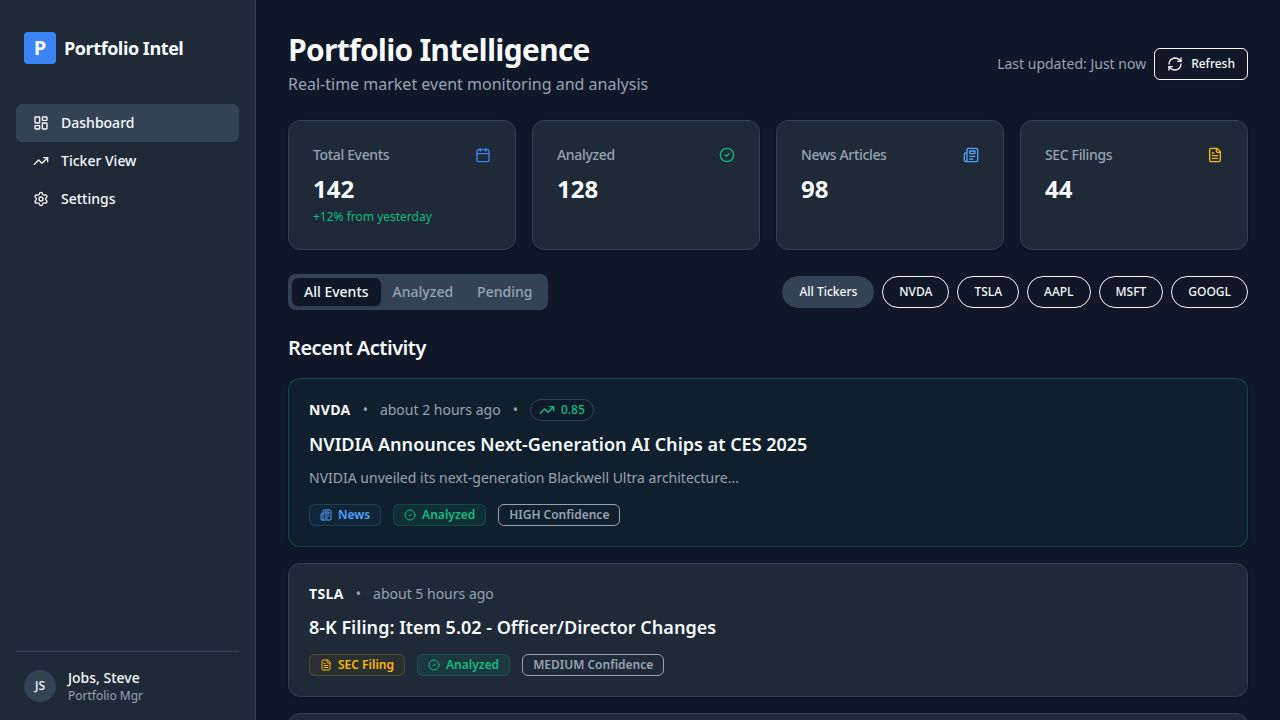
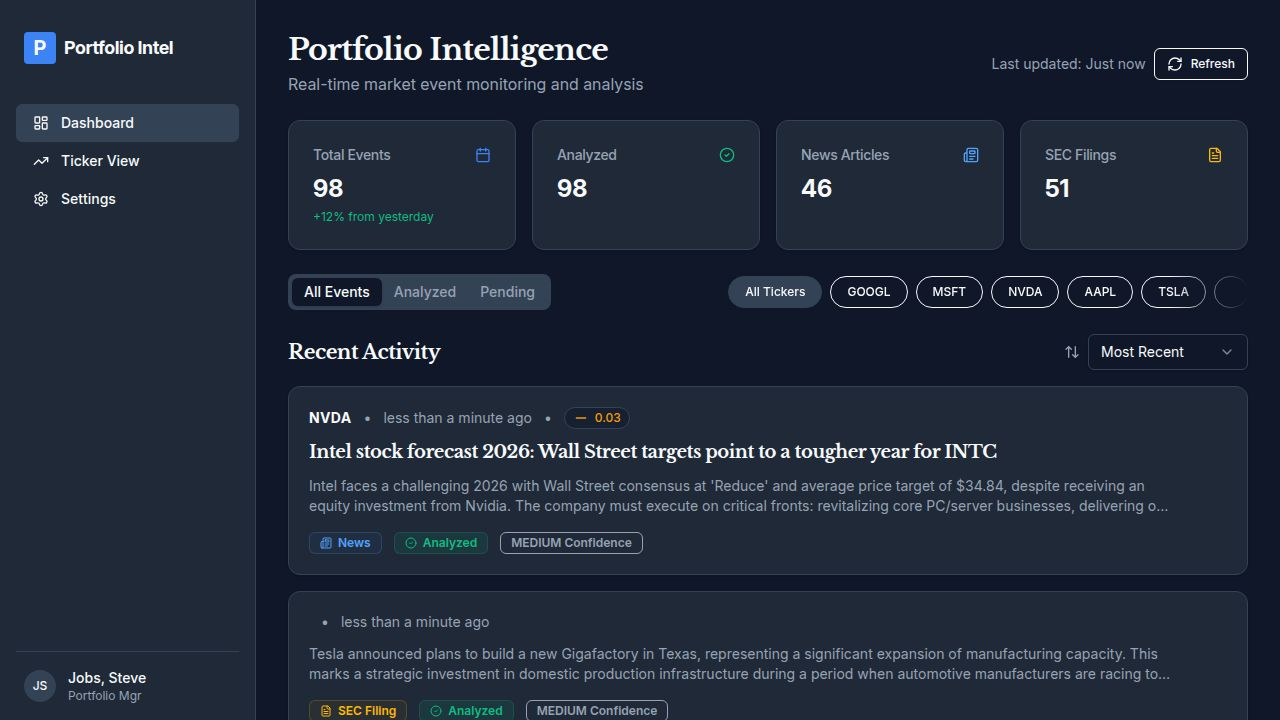
Add sorting options to the dashboard for event activity
Introduces sorting functionality to the dashboard page in `dashboard.tsx`, allowing users to sort events by newest, oldest, or ticker. This involves adding a `Select` component and implementing sorting logic using the `parseEventTimestamp` utility.

Replit-Commit-Author: Agent
Replit-Commit-Session-Id: d6a0dcff-0630-4fe8-9c43-8696b8bf35ca
Replit-Commit-Checkpoint-Type: full_checkpoint
Replit-Commit-Event-Id: 876ff59f-f534-4583-8194-0ddeda4c1097
Replit-Commit-Screenshot-Url: https://storage.googleapis.com/screenshot-production-us-central1/762be6b0-a721-4ed5-81e4-0ef8e3904b72/d6a0dcff-0630-4fe8-9c43-8696b8bf35ca/9heG282
Replit-Helium-Checkpoint-Created: true

diff --git a/client/src/pages/dashboard.tsx b/client/src/pages/dashboard.tsx
@@ -3,16 +3,27 @@ import { StatsCard } from "@/components/stats-card";
 import { EventCard } from "@/components/event-card";
 import { Button } from "@/components/ui/button";
 import { Tabs, TabsList, TabsTrigger } from "@/components/ui/tabs";
-import { Calendar, FileText, Newspaper, RefreshCw, CheckCircle2 } from "lucide-react";
+import { Calendar, FileText, Newspaper, RefreshCw, CheckCircle2, ArrowUpDown } from "lucide-react";
 import { useState } from "react";
 import { Event } from "@/lib/types";
 import { useQuery } from "@tanstack/react-query";
 import { fetchEvents, fetchPortfolioMetrics } from "@/lib/api";
 import { Skeleton } from "@/components/ui/skeleton";
+import { parseEventTimestamp } from "@/lib/date-utils";
+import {
+  Select,
+  SelectContent,
+  SelectItem,
+  SelectTrigger,
+  SelectValue,
+} from "@/components/ui/select";
+
+type SortOption = 'newest' | 'oldest' | 'ticker';
 
 export default function Dashboard() {
   const [statusFilter, setStatusFilter] = useState<'ALL' | 'ANALYZED' | 'PENDING'>('ALL');
   const [tickerFilter, setTickerFilter] = useState<string | null>(null);
+  const [sortBy, setSortBy] = useState<SortOption>('newest');
   
   // Fetch events
   const { data: events = [], isLoading: eventsLoading, refetch: refetchEvents } = useQuery({
@@ -28,11 +39,26 @@ export default function Dashboard() {
     refetchInterval: 60000,
   });
   
+  // Filter events
   const filteredEvents = events.filter((event: Event) => {
     if (statusFilter === 'ANALYZED' && event.status !== 'ANALYZED') return false;
     if (statusFilter === 'PENDING' && event.status !== 'PENDING_ANALYSIS') return false;
     if (tickerFilter && event.ticker !== tickerFilter) return false;
     return true;
+  });
+
+  // Sort events
+  const sortedEvents = [...filteredEvents].sort((a, b) => {
+    switch (sortBy) {
+      case 'newest':
+        return parseEventTimestamp(b.timestamp).getTime() - parseEventTimestamp(a.timestamp).getTime();
+      case 'oldest':
+        return parseEventTimestamp(a.timestamp).getTime() - parseEventTimestamp(b.timestamp).getTime();
+      case 'ticker':
+        return a.ticker.localeCompare(b.ticker);
+      default:
+        return 0;
+    }
   });
 
   const uniqueTickers = Array.from(new Set(events.map(e => e.ticker)));
@@ -131,7 +157,22 @@ export default function Dashboard() {
 
       {/* Event Feed */}
       <div className="space-y-4 animate-in fade-in slide-in-from-bottom-4 duration-500 delay-300">
-        <h2 className="text-xl font-semibold tracking-tight font-serif">Recent Activity</h2>
+        <div className="flex items-center justify-between">
+          <h2 className="text-xl font-semibold tracking-tight font-serif">Recent Activity</h2>
+          <div className="flex items-center gap-2">
+            <ArrowUpDown className="h-4 w-4 text-muted-foreground" />
+            <Select value={sortBy} onValueChange={(v) => setSortBy(v as SortOption)}>
+              <SelectTrigger className="w-[160px]">
+                <SelectValue placeholder="Sort by" />
+              </SelectTrigger>
+              <SelectContent>
+                <SelectItem value="newest">Most Recent</SelectItem>
+                <SelectItem value="oldest">Oldest First</SelectItem>
+                <SelectItem value="ticker">By Ticker</SelectItem>
+              </SelectContent>
+            </Select>
+          </div>
+        </div>
         <div className="grid gap-4">
           {eventsLoading ? (
             <>
@@ -139,8 +180,8 @@ export default function Dashboard() {
               <Skeleton className="h-48" />
               <Skeleton className="h-48" />
             </>
-          ) : filteredEvents.length > 0 ? (
-            filteredEvents.map(event => (
+          ) : sortedEvents.length > 0 ? (
+            sortedEvents.map(event => (
               <EventCard key={event.event_id} event={event} />
             ))
           ) : (
